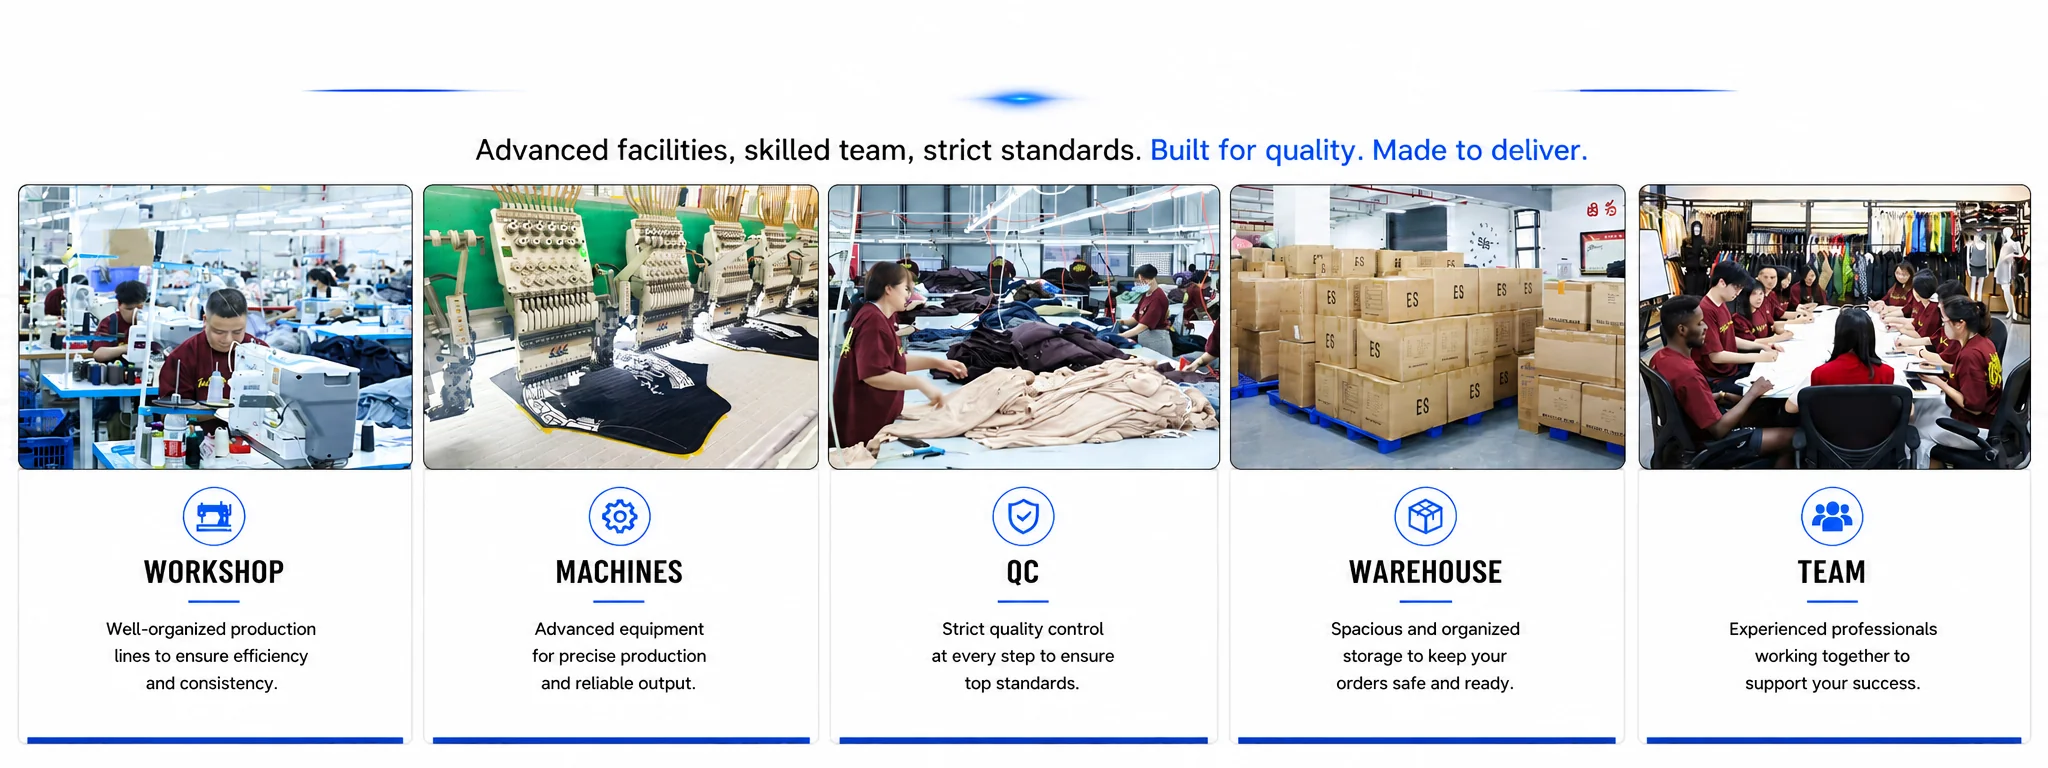
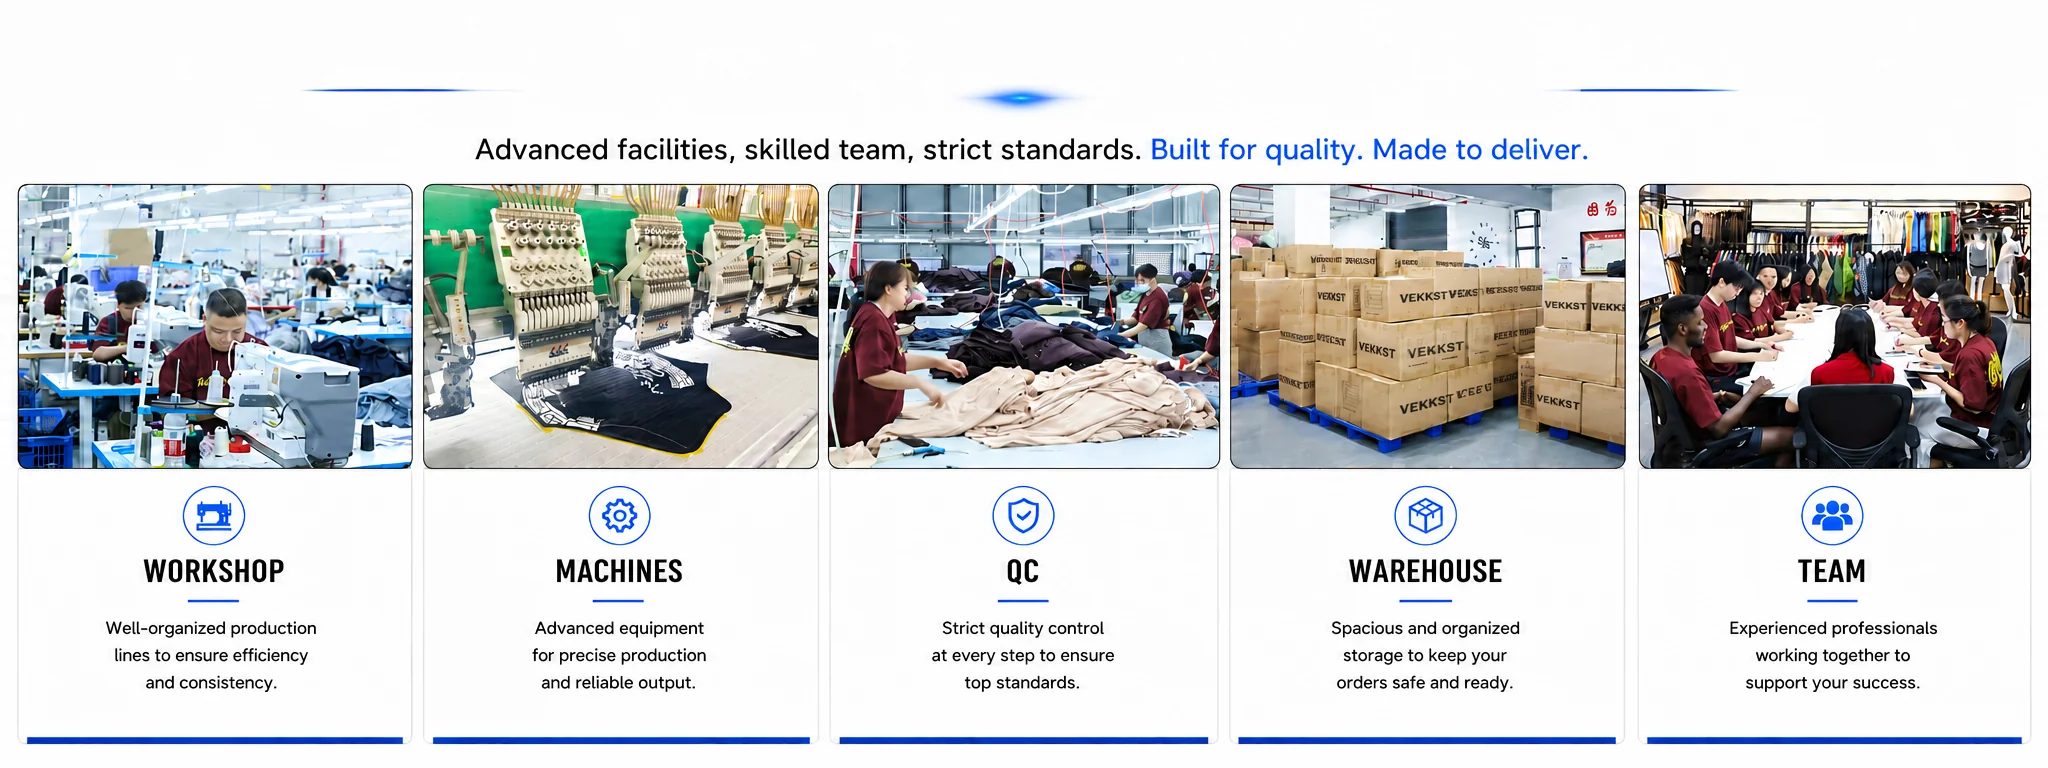
perf: convert PNG images to WebP — 88% smaller file sizes
Convert Factory Strength and From Idea to Bulk PNGs to WebP:
- Factory Strength: 1.57MB → 0.19MB (87.9% smaller)
- From Idea to Bulk: 1.63MB → 0.15MB (90.7% smaller)

Update Home.tsx fallback paths to use .webp extension.
WebP is supported on all modern browsers and loads much faster
on mobile connections.

diff --git a/source/src/pages/Home.tsx b/source/src/pages/Home.tsx
@@ -166,7 +166,7 @@ export default function Home() {
         </div>
         <div className="full-bleed">
           <img
-            src={cms("factory-strength", "/images/Factory Strength.png")}
+            src={cms("factory-strength", "/images/Factory Strength.webp")}
             alt="Factory Strength"
             className="w-full h-auto md:h-[720px] object-cover"
             decoding="async"
@@ -226,7 +226,7 @@ export default function Home() {
         </div>
         <div className="full-bleed">
           <img
-            src={cms("process-8steps", "/images/From Idea to Bulk.png")}
+            src={cms("process-8steps", "/images/From Idea to Bulk.webp")}
             alt={t("fromIdeaToBulk", lang)}
             className="w-full h-auto md:h-[720px] object-cover"
             decoding="async"